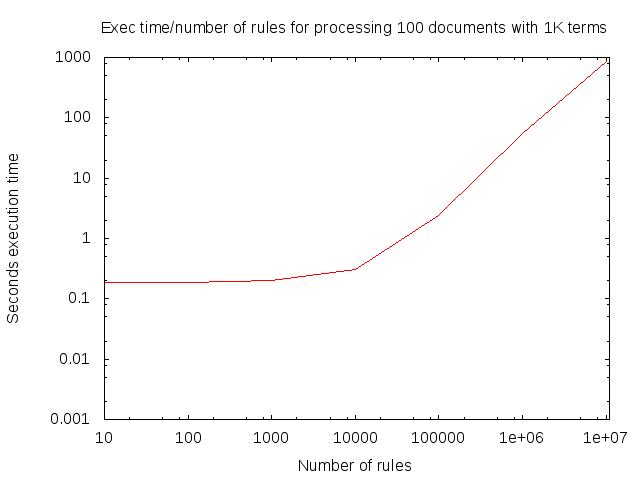
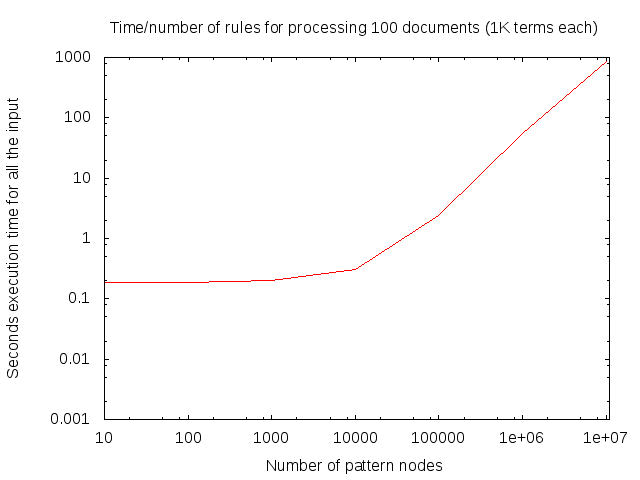
adapted test result because of changes test output

Changed region(s): [[0.1562, 0.0312, 0.9375, 0.0938], [0.0, 0.2188, 0.0312, 0.7812], [0.4062, 0.9375, 0.6875, 1.0]]

diff --git a/doc/webpage/stream_processing.html b/doc/webpage/stream_processing.html
@@ -16,45 +16,73 @@
 <div id="content">
 	<h1>Strus Stream</h1>
 	<h2>Description</h2>
-	<p id="description"><i>StrusStream</i> is a pattern detection library for document stream processing with a competitive performance, suitable for processing large sets of rules.
-	It can be used for detecting multipart entities or structures in text. In a bigger context it can support NLP and entity recognition,
-	wheter you use the large set of patterns to detect entities directly or as hint for a system learning entities.
-	The patterns that can be recognized are describable as expression trees with basic tokens as leafs, that are recognized with 
-	regular expressions on text.</br>
-	Some of the expression tree node operators supported are named according to the
+	<p id="description"><i>StrusStream</i> is an event or data driven pattern detection library for 
+	text processing with a competitive performance, suitable for processing large sets of rules.
+	It can be used for detecting multipart entities or structures in text. In a bigger context it can
+	support NLP and entity recognition.
+	The patterns that can be recognized are describable as expression trees with basic tokens as 
+	leafs, that are recognized with regular expressions on text.</br></br>
+	The name <i>StrusStream</i> reflects its event or data flow driven processing of text.
+	It is <b>not</b> a framework like <a href="http://storm.apache.org/">Apache Storm</a> for event
+	driven processing and forwarding of normalized data in a network of processing nodes.
+	In the context of such a stream processing framework you may see <i>StrusStream</i> acting as
+	a source of events, represented as named tuples of data, extracted from text.
+	</p>
+
+	<h2>The Intel hyperscan library</h3>
+	<p id="description"><i>StrusStream</i> uses the <a href="https://01.org/hyperscan">hyperscan</a> library from <i>Intel</i>
+	for tokenization.<br/>
+	Thanks to <i>Intel</i> for publishing this great work as open source.
+	</p>
+
+	<h2>Links to alternative solutions</h2>
+	<p id="description">
+	The following links show alternatives for pattern detection in documents.
+	<ol>
+	<li><a href="http://stanfordnlp.github.io/CoreNLP">CoreNLP</a>, a tool suite for different aspects of NLP,
+		including <a href="http://nlp.stanford.edu/software/tokensregex.html">pattern matching</a> on text,
+		licensed under <a href="https://www.gnu.org/licenses/gpl-3.0.en.html">GPLv3</a>. 
+		API available for Java. Stanford <i>CoreNLP</i> covers much more than simple pattern
+		matching. It provides a workbench for all aspects of natural language processing accompanied
+		by a huge knowledge base on the topic. (See for example the <a href="https://class.coursera.org/nlp/lecture">Standford video lectures</a>).
+	</li>
+	<li>The <a href="https://uima.apache.org/ruta.html">Uima Ruta</a> workbench for rule-based text annotation,
+	licensed under the <a href="http://www.apache.org/licenses">Apache license</a>.
+	APIs available for Java an C++. With Uima Ruta you get a framework to define arbitrary rules on text with
+	its connectors to the big <i>Apache</i> universe for scalable data processing.
+	</li>
+	</ol>
+	</p>
+
+	<h2>How StrusStream works</h2>
+	<p id="description">
+	<i>StrusStream</i> does not detect patterns by an imperative procedure triggered by events in the source
+	data stream. Though it does start the initiation of a pattern detection with a key event triggering it.
+	But rather than subsequently executing a program, it installs for every pattern node triggered a small set
+	of triggers and a slot with an expiration time. Signals are fired to the slot when an event matching
+	a trigger occurrs in the subsequent event stream. The completion all awaited signals of a slot leads
+	to an emission of a signal for other slots waiting for it and/or the production of a result.
+	So <i>StrusStream</i> is data flow driven to the end. 
+	This comes to certain costs of missing flexibility on one hand, because this approach restricts the 
+	universe of thinkable pattern classes.
+	On the other hand in allows to describe the problem in a more formal way.
+	And to use modern hardware in a more efficient way.
+	</p>
+
+	<h3>Operators</h3>
+	<p id="description">
+	<i>StrusStream</i> defines patterns as expression trees of nodes. Each node represents a basic token
+	in the source or operators on tuples of nodes. Most of the operators supported are named according to the
 	<a href="http://www.project-strus.net/builtin_functions.htm">posting join operators</a> in the
-	strus query evaluation. Not all of them are implemented though and some exist in the token 
-	pattern matching, but not in this form in the query evaluation:
+	strus query evaluation. Not all of them are implemented though and some exist in <i>StrusStream</i>,
+	but not in this form in the query evaluation:
 	<h4>Token pattern matching operators</h4>
 	<ol>
 	<li><b>any</b>: Matches if any of the argument subexpressions or tokens matches.</li>
 	<li><b>sequence</b>: Matches if the argument subexpressions or tokens appear in the order as the arguments within a proximity range of ordinal positions specified.</li>
 	<li><b>sequence_struct</b>: Matches if the argument subexpressions or tokens appear in the order as the arguments within a proximity range of ordinal positions specified without a structure delimiter (e.g. end of sentence token), specified as first argument, within the span of a match.</li>
-	<li><b>within</b>: Matches if the argument subexpressions or tokens appear within a proximity range of ordinal positions specified.</li>
-	<li><b>within_struct</b>: Matches if the argument subexpressions or tokens appear within a proximity range of ordinal positions specified without a structure delimiter (e.g. end of sentence token), specified as first argument, within the span of a match.</li>
-	</ol>
-	</p>
-
-	<h2>The Intel hyperscan library</h3>
-	<p id="description">For tokenization, <i>StrusStream</i> uses the <a href="https://01.org/hyperscan">hyperscan</a> library from <i>Intel</i>.
-	Thanks to <i>Intel</i> for publishing this great work as open source.
-	</p>
-
-	<h2>Links about the topic and alternative solutions</h2>
-	<p id="description">
-	<ol>
-	<li><a href="https://class.coursera.org/nlp/lecture">Video lectures</a> from the Stanford Natural Language Processing group
-	about several aspects of NLP and information retrieval.
-	</li>
-	<li><a href="http://stanfordnlp.github.io/CoreNLP">CoreNLP</a>, a tool suite for different aspects of NLP,
-		namely for <a href="http://nlp.stanford.edu/software/tokensregex.html">pattern matching</a>,
-		licensed under <a href="https://www.gnu.org/licenses/gpl-3.0.en.html">GPLv3</a>. 
-		API available for Java.
-	</li>
-	<li>The <a href="https://uima.apache.org/ruta.html">Uima Ruta</a> workbench for rule-based text annotation,
-	licensed under the <a href="http://www.apache.org/licenses">Apache license</a>.
-	APIs available for Java an C++.
-	</li>
+	<li><b>within</b>: Matches if the argument subexpressions or tokens appear in arbitrary order within a proximity range of ordinal positions specified.</li>
+	<li><b>within_struct</b>: Matches if the argument subexpressions or tokens appear in arbitrary order within a proximity range of ordinal positions specified without a structure delimiter (e.g. end of sentence token), specified as first argument, within the span of a match.</li>
 	</ol>
 	</p>
 
@@ -64,7 +92,7 @@
 	<h3>Example patterns defined</h3>
 	<h4>Define the patterns with in a configuration file</h4>
 	<p id="description">We define the example rules defined in the following listing.
-	The declarations with an identifier followed by a ':' specify the tokens defined by regular expressions. The counting of the different token start positions defines the ordinal positions of the tokens. The number following a '^' after the name of the token defines its level, a sort of priorization. Tokens covered completely by a token of a higher level are not part of the output and for ordinal position assignments. We use the possibiliy to superseed rules in our example to define a hierarchy SENT (end of sentence) < ABBREV (abbreviation) < URL < EMAIL. It means that a dot is an end of sentence marker if not part of an abbreviation, URL or email address. An abbreviation is not recognized as such, if part of an URL. An URL is not an URL, if part of an email address, etc.
+	The declarations with an identifier followed by a ':' specify the tokens defined by regular expressions. The counting of the different token start positions defines the ordinal positions of the tokens. The number following a '^' after the name of the token defines its level, a sort of priorization. Tokens covered completely by a token of a higher level are not part of the output and for ordinal position assignments. We use the possibiliy to superseed rules in our example to define a hierarchy <b>SENT</b> (end of sentence) &lt; <b>ABBREV</b> (abbreviation) &lt; <b>URL</b> &lt; <b>EMAIL</b>. It means that a dot is an end of sentence marker if not part of an abbreviation, URL or email address. An abbreviation is not recognized as such, if part of an URL. An URL is not an URL, if part of an email address, etc.
 	<br/>The declarations with an identifier followed by a '=' specify the patterns defined on tokens with the ordinal position as position reference for proximity range specifications.
 	</p>
 	<pre>
@@ -86,9 +114,9 @@ Name		= sequence( firstname=[0.75]CAPWORD, surname=CAPWORD | 2 );
 Contact		= sequence_struct( SENT, Name, email=EMAIL | 10 );
 	</pre>
 	<p id="description">
-	A "Name" is defined as a sequence of two words with capitalized first letter in a proximity distance of 2
+	A "Name" is defined as a sequence of two words with capitalized first letter in a proximity distance of 2 (ordinal position distance, number of tokens)
 	In this example the variable assignment of firstname gets the weight 0.75 assigned. Weigths are not
-	interpreted or used by strusStream. They are there for the user if part or the interpretation of the result.
+	interpreted or used by <i>StrusStream</i>. They are there for the user if part or the interpretation of the result.
 	<br/>
 	A "Contact" is defined as sequence of a name as we defined it and an email address in in a proximity
 	distance of maximum 10 tokens, without an end of sentence marker appearing in between a candidate match.
@@ -104,7 +132,7 @@ This is an example document about Prof. John Doe, contact mail@etc.com, or visit
 He is responsible for development, etc..
 	</pre>
 	<h3>Tokenization</h3>
-	<p id="description">The following output shows the tokens recognized with our set of rules defined:
+	<p id="description">The following output shows the tokens recognized with our set of patterns defined:
 	</p>
 	<pre>
 token WORD(1) at 1[0:4] 'This'
@@ -136,7 +164,7 @@ token SENT(2) at 22[132:1] '.'
 	</pre>
 
 	<h3>Rule matching</h3>
-	<p id="description">The following output of the program <i>strusPatternMatch</i> shows the entities recognized with our set of rules (patterns of tokens) defined:
+	<p id="description">The following output of the program <i>strusPatternMatch</i> shows the entities recognized with our example patterns:
 	</p>
 	<pre>
 result Name at 8:
@@ -150,13 +178,16 @@ result Contact at 8:
 	</pre>
 
 	<h2>Performance measurements on an Intel NUC (NUC6i3SYK)</h2>
-	<p id="description">The following runs show the behaviour of the <i>StrusStream</i> pattern matching without tokenization. We just use random documents represented as Zipf distributed random numbers, assuming 30'000 different terms in the whole collection. Each document contains 1000 such terms.
-	The patterns are sequences of two random terms (Zipf distribution applied here too) within a proximity range of 1 to 10 with smaller proximity being much more likely than larger proximity conditions.
-	We start 4 threads with the same rule set with different input documents and test with 10 to 10'000'000 patterns evaluated.
+	<p id="description">The following runs show the behaviour of the <i>StrusStream</i> pattern matching without tokenization. We just use random documents represented as <a href="http://mathworld.wolfram.com/ZipfDistribution.html">Zipf distributed</a> random numbers, assuming 30'000 different terms in the whole collection. Each document contains 1000 such terms.
+	The patterns are sequences of two random terms (<i>Zipf distribution</i> applied here too) within a proximity range of 1 to 10 with smaller proximity being much more likely than larger proximity conditions.
+	We start 4 threads with the same pattern set with different input documents and test with 10 to 10'000'000 patterns evaluated.
+	<br/><br/>
 	This test does not help to estimate the performance of the system solving a real world problems. But it can help to estimate its behaviour when confronted with real world problems, if you look at the numbers in detail, like how many patterns were activated or how many patterns matched, etc.. Leaving the regular expression matching out in this test is not a problem since you can for sure assume, that the ultra fast <i>hyperscan</i> library from Intel will not be a bottleneck.
-	For real world problems, you also have to take into account, that rules get more complicated, with subexpressions, more complex operators than a simple sequence and variables assigned for items, you want to be part of the result. The numbers here are just representing the numbers for a set of the simplest type of rule possible. If you measure the performance for rule nodes detecting sequences of terms or subexpressions within the same sentence sentence, you will roughly double the execution time. Same for nodes detecting the appearance of two features in whatever order compared with a simple sequence.
-	If you have more complex rules, e.g. expression trees with many nodes, you have to count every node as unit and you have to take into account that every sub expression matched produces an event that gets part of the input processed.
-	The tests were run on an Intel NUC (<a href="http://www.intel.com/content/www/us/en/nuc/nuc-kit-nuc6i3syk.html">NUC6i3SYK</a>), a system with 4 GB RAM is enough for processing the test with 10'000'000 rule nodes.
+	For real world problems, you also have to take into account, that patterns get more complicated, with subexpressions, more complex operators than a simple sequence and variables assigned for items, you want to be part of the result. The numbers here are just representing the numbers for a set of the simplest type of pattern possible. If you measure the performance for pattern nodes detecting sequences of terms or subexpressions within the same sentence sentence, you will roughly double the execution time. Same for nodes detecting the appearance of two features in whatever order compared with a simple sequence.
+	If you have more complex patterns, e.g. expression trees with many nodes, you have to count every node as unit and you have to take into account that every sub expression matched produces an event that gets part of the input processed.
+	<br/><br/>
+	The tests were run on an <i>Intel NUC</i> (<a href="http://www.intel.com/content/www/us/en/nuc/nuc-kit-nuc6i3syk.html">NUC6i3SYK</a>), a system with <b>4 GB RAM</b> is enough for processing the test with <b>10'000'000</b> nodes.
+	<br/><br/>
 	</p>
 	<pre>
 for dd in 10 100 1000 10000 100000 1000000 10000000; do
@@ -237,7 +268,7 @@ statistiscs:
 </ul>
 <li><b>nofAltKeyProgramsInstalled</b>: Tells how many optimized patterns with an alternative key event were triggered for execution by a key event during the whole processing of the 100 documents. A pattern is optimized, if an initial token, triggering the evaluation of the pattern, is statistically appearing too often. In this case a valable alternative token, if it exists, is chosen, and the initial token event is replayed for the pattern to match. The intention of this optimization is to reduce the number or hits and the following processing of rules that may not match. As example consider a rule like "The world", that is triggered with every appearance of "the". Triggering the rule with "world" is better in english text.</li>
 <li><b>nofProgramsInstalled</b>: Tells how many patterns were triggered for execution by a key event during the whole processing of the 100 documents.</li>
-<li><b>nofTriggersAvgActive</b>: Tells how many patterns were active in average for every input token processed.</li>
+<li><b>nofTriggersAvgActive</b>: Tells how many patterns were active (waiting for events to complete the pattern match) in average for every input token processed.</li>
 <li><b>nofSignalsFired</b>: Tells how many signals were fired during the whole processing of the 100 documents. An active pattern listens for signals fired on a slot. The pattern matches on a completion condition on the slot.</li>
 </ol>
 </p>
@@ -251,14 +282,15 @@ rule nodes evaluated.
 
 <h2>Caveats</h2>
 <p id="description"><i>StrusStream</i> handles events immediately when they are seen.
-This can lead to anomalies, when formulating restrictions, e.g. with 'sequence_struct' or 'within_struct'.
-When the last element of a rule is detected without passing over a structure element, that is part of 
+This can lead to anomalies, when formulating restrictions, e.g. with 'sequence_struct' or 'within_struct'
+in cases the structure delimiter gets the same ordinal position assigned than another token that is part of the
+pattern. When the last element of a rule is detected without passing over a structure element, that is part of 
 the restriction condition, then the result is emitted, even if a restriction event with the same ordinal position,
 that should overrule the decision, happens thereafter. Another anomaly of this kind can happen, when the 
 restricting element of a rule occurrs with the same position, but before the key event triggering the pattern.
 <br/>
 Practically I do not see too bad consequences of this behaviour, because structure delimiters usually get their
-own position assigned. But it might be needed in the future to treat these cases differently.
+own ordinal position assigned. But it might be needed in the future to treat these cases differently.
 <br/>
 At the moment I just premention the expected behaviour.
 </p>
